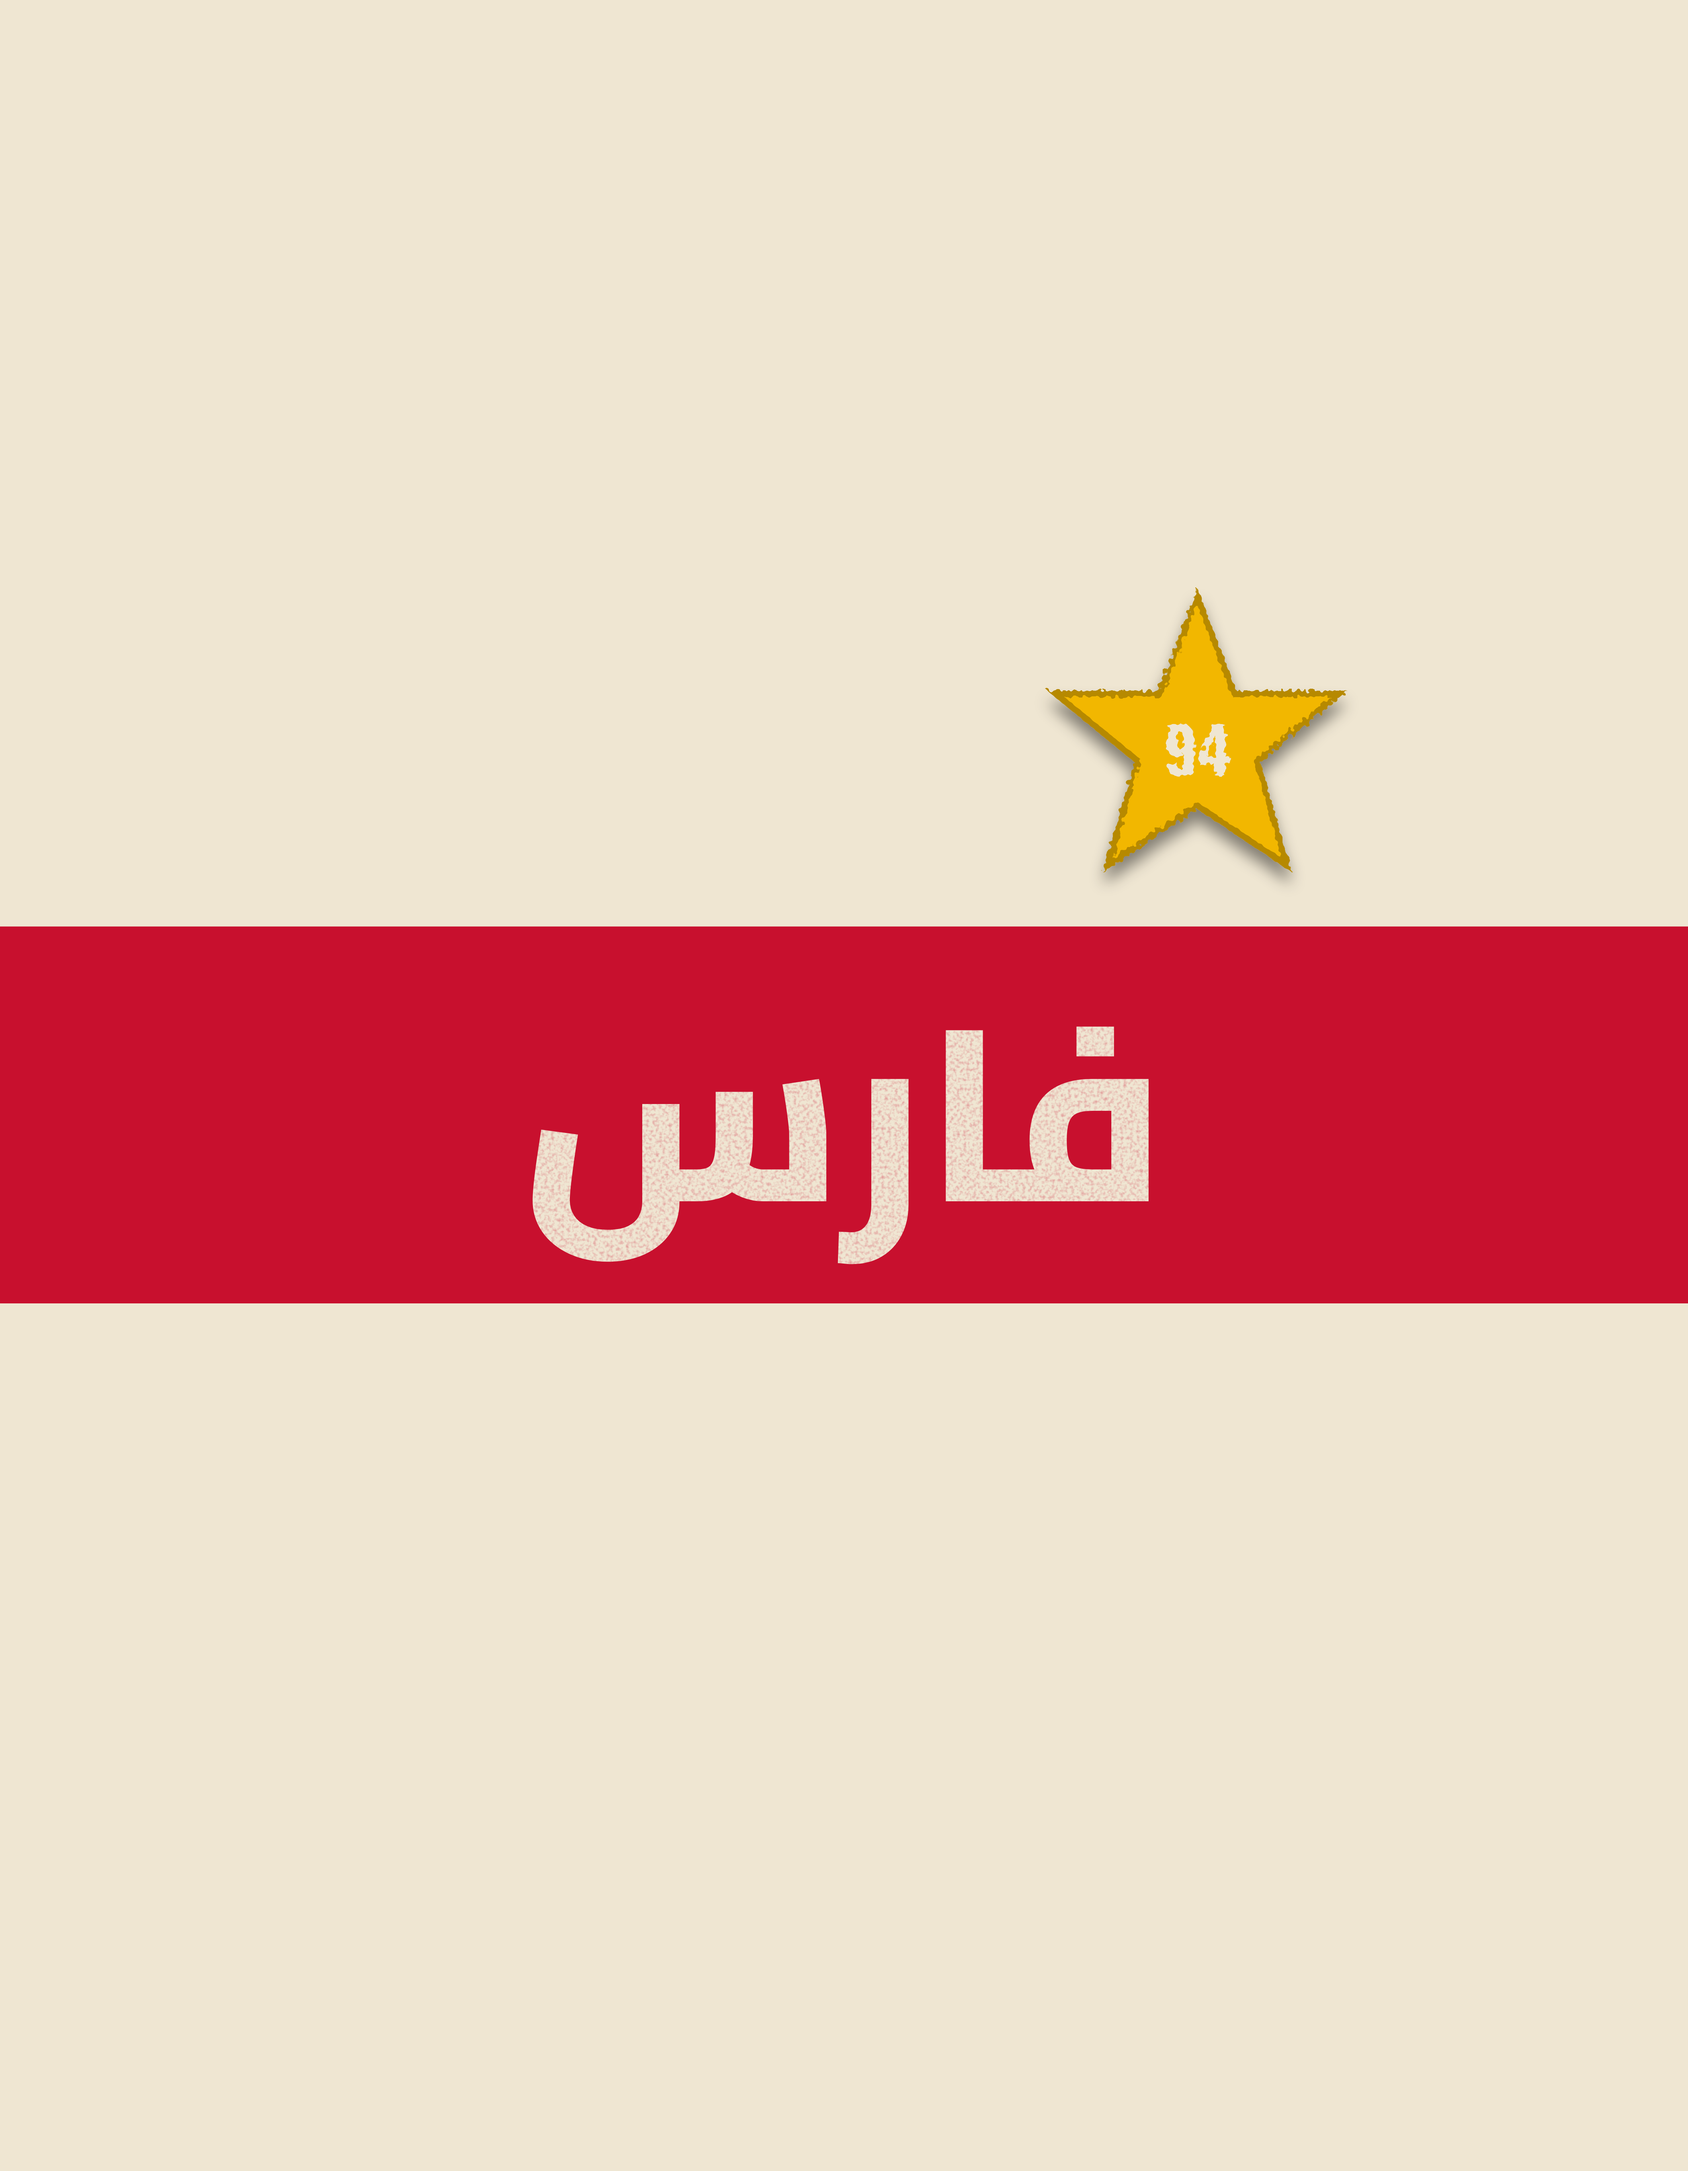
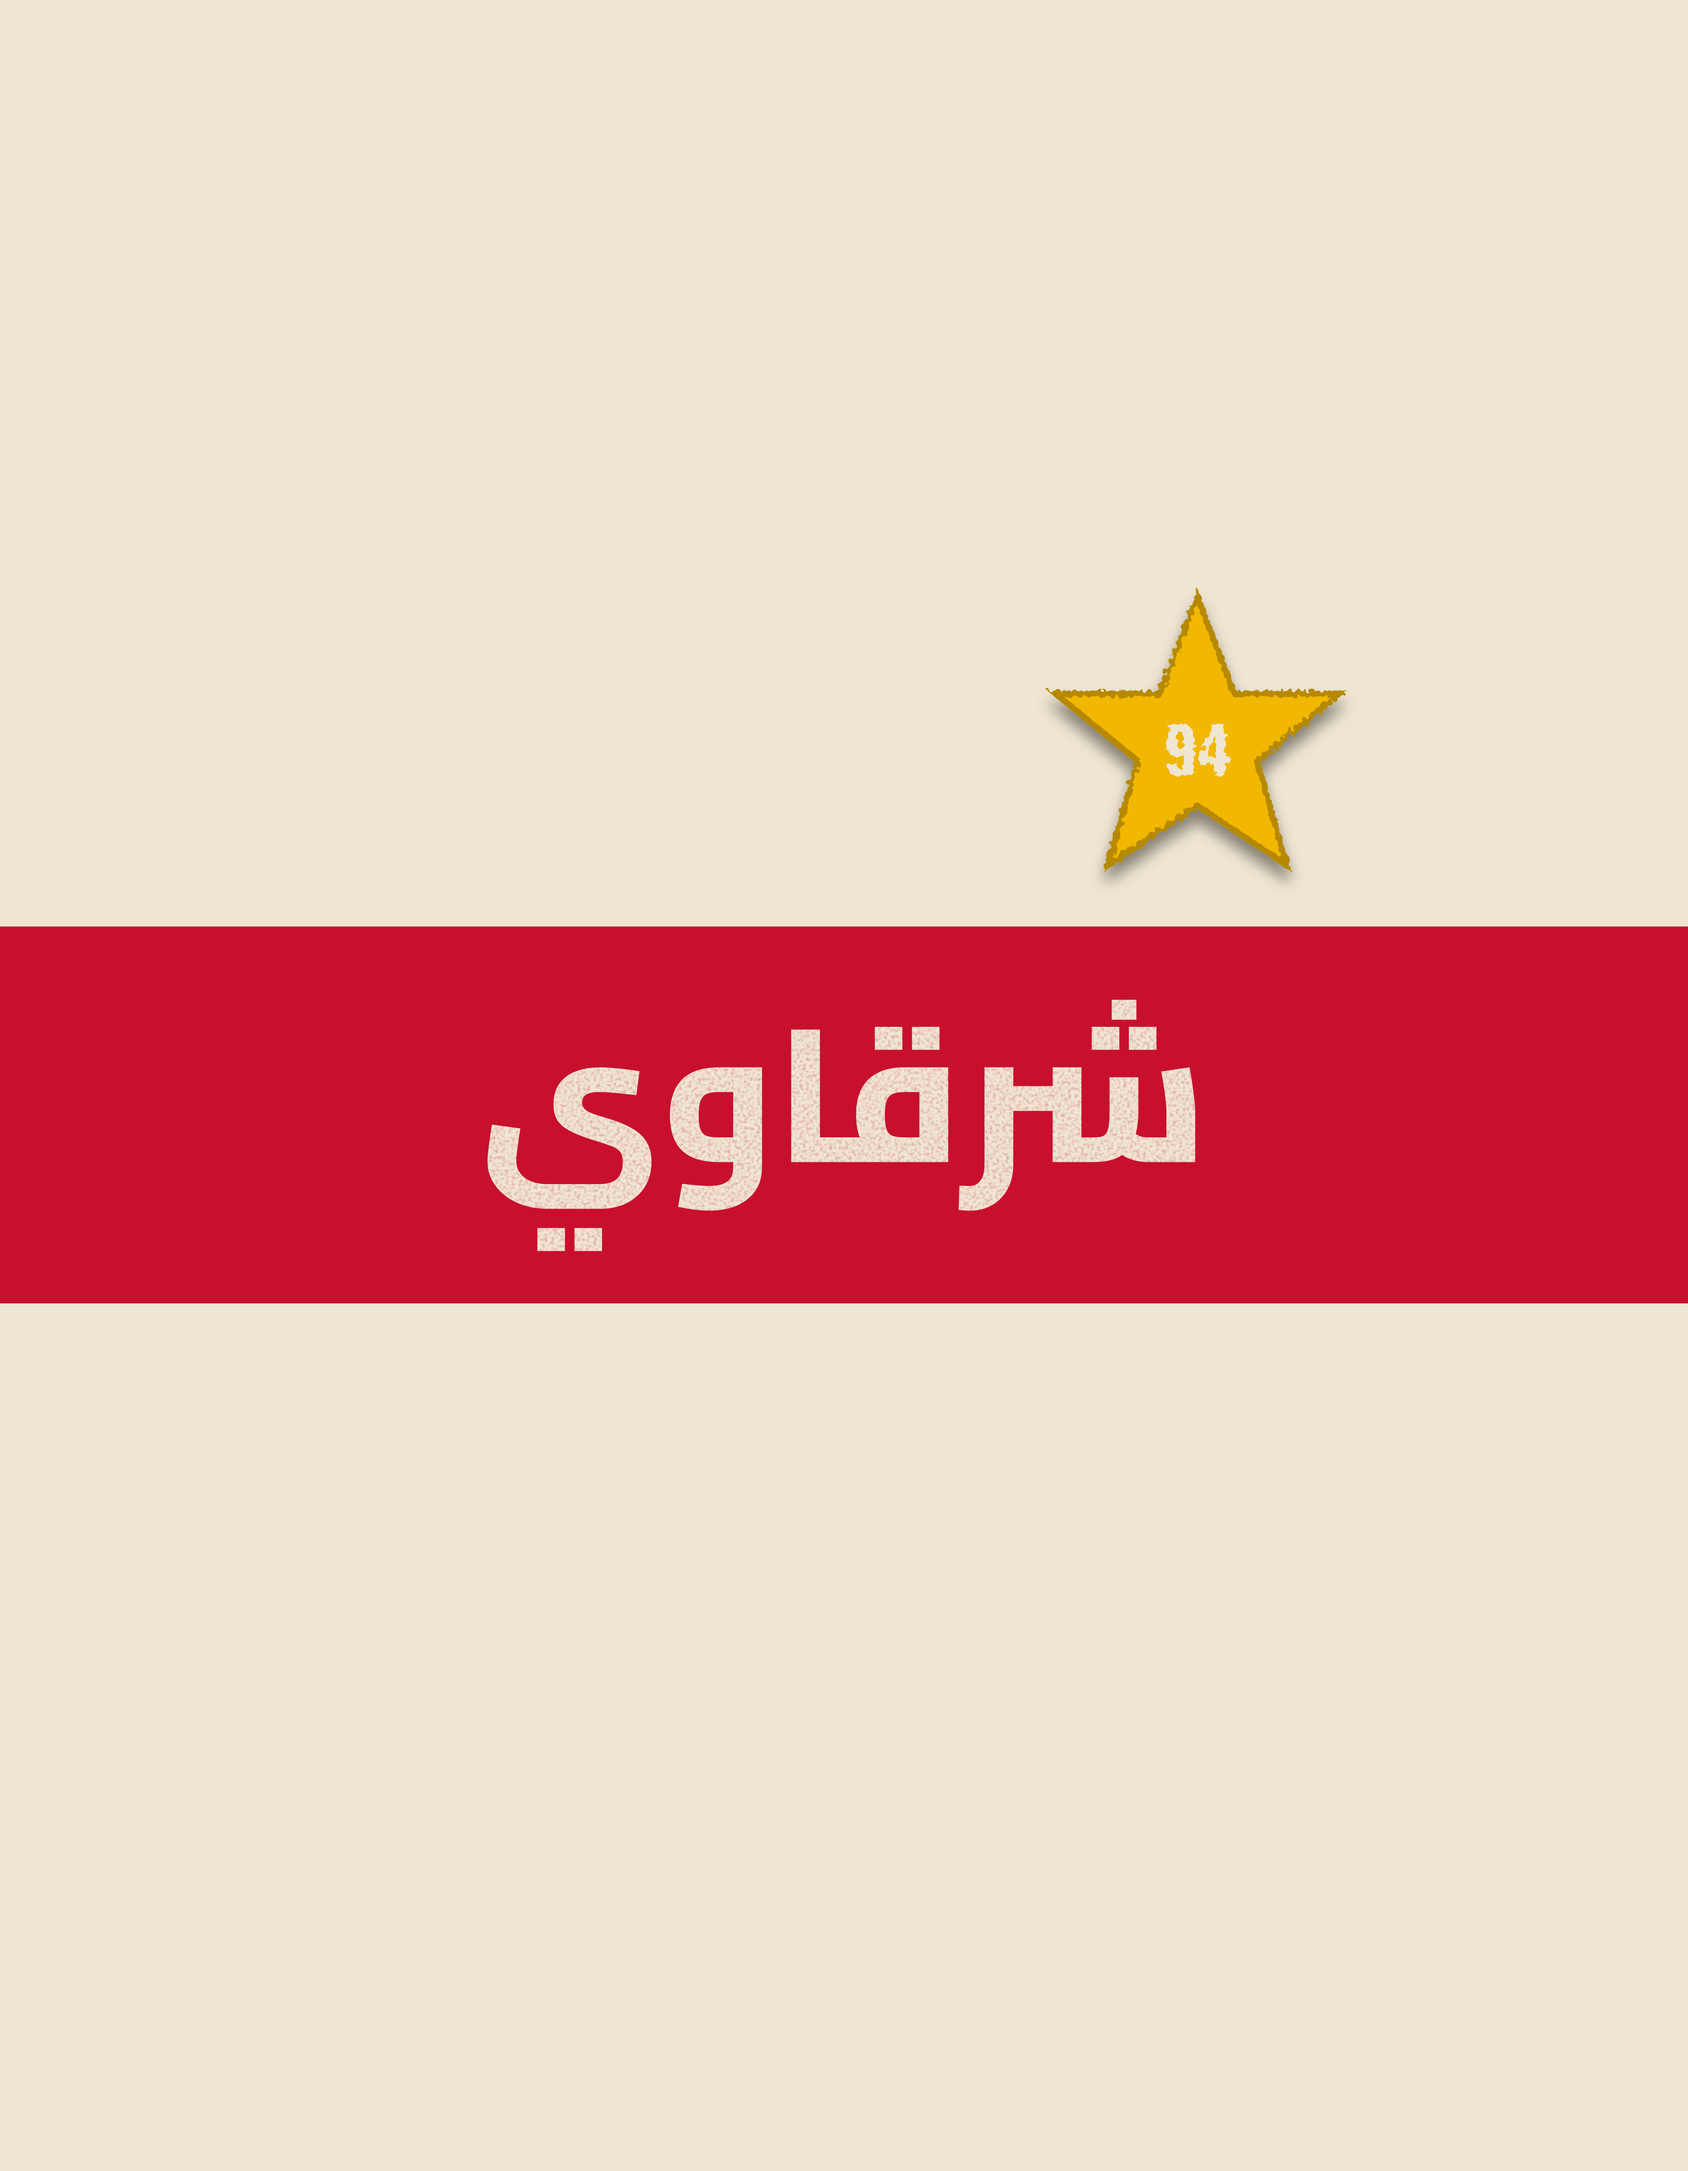
Jerseys: SHARQAWI rebrand of '94 Asia Tribute, Mosaic '89, Shemagh, Sadu
Claude-Session: https://claude.ai/code/session_01NgddhXssocHAQukmWFXBVf

Changed region(s): [[0.2807, 0.4667, 0.7174, 0.5911]]

diff --git a/README.md b/README.md
@@ -1,6 +1,6 @@
-# FARES print files
+# SHARQAWI print files
 
-Print-ready artwork for FARES, an **unofficial** Al-Qadsiah fan jersey project.
+Print-ready artwork for SHARQAWI (formerly FARES), an **unofficial** Al-Qadsiah fan jersey project.
 No official club crests, logos or sponsors are used.
 
 Files are exported from `apparel/export-printfiles.js` in the main project and
